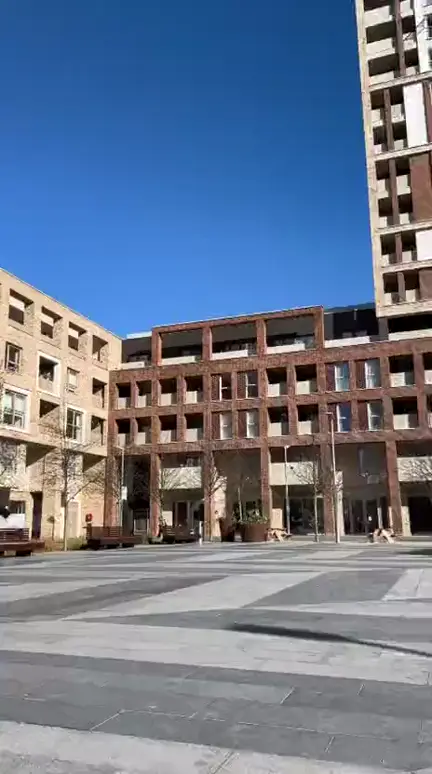
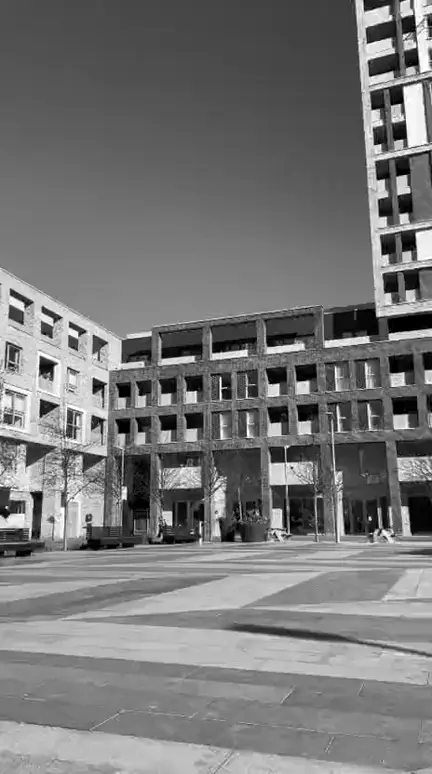
feat: contact section revolves around Instagram; drop grayscale filters
Contact
- One Instagram card replaces the 2x2 grid. That grid listed a YouTube, a
  Vimeo and an email which all pointed at "#", so the section offered four
  routes and none of them worked.
- The copy-to-clipboard email button goes with them; the address was never
  wired to anything.
- The hand-rolled Instagram mark and the outbound URLs move into shared
  modules, since the footer needs them too. lucide dropped brand icons in v1,
  so the SVG has to live somewhere.

Reveal performance
Revealing the rest of the grid stuttered for a second or two before settling.
The bulk of it was `filter: grayscale()` on every card: a ~400x711 CSS px
image is ~1.1M device pixels of filter work, each one forced onto its own
compositing layer, fifteen times over.

None of that was necessary. A card at rest is a grayscale image, so the
desaturation is now baked into the WebP at encode time, and the video — which
only ever appears on hover, in colour — needs no filter either. Both CSS
filters are gone from the reels grid.

The grayscale-to-colour transition survives as a cross-fade: the video fades in
over the still once its first frame has decoded. Both layers show frame 0 of
the same encode, so what cross-fades is purely the colour returning, and there
is no flash of an empty video element. The fade state lives in a child that
unmounts with the video, so it resets for free.

Verified: reel stills are fully desaturated, hero stills remain in colour.

diff --git a/src/components/site/Contact.tsx b/src/components/site/Contact.tsx
@@ -1,20 +1,13 @@
 import { Reveal } from "@/components/motion/Reveal";
 import { SectionHeader } from "@/components/site/SectionHeader";
-import { Check, Copy } from "lucide-react";
+import { InstagramIcon } from "@/components/site/icons";
+import { INSTAGRAM_HANDLE, INSTAGRAM_URL } from "@/lib/links";
 import { motion } from "motion/react";
-import { useState } from "react";
 
 const CARD_INITIAL = { opacity: 0, y: 24 };
 const CARD_VISIBLE = { opacity: 1, y: 0 };
 const CARD_VIEWPORT = { once: true, amount: 0.5 } as const;
 const CARD_TRANSITION = { duration: 0.55, ease: [0.23, 1, 0.32, 1] as const };
-
-const links = [
-  { label: "Instagram", handle: "@skatedatway", href: "#" },
-  { label: "YouTube", handle: "/@skatedatway", href: "#" },
-  { label: "Vimeo", handle: "/skatedatway", href: "#" },
-  { label: "Email", handle: "hello@skatedatway.com", href: "#" },
-];
 
 export function Contact() {
   // Section is entirely bg-rust — any text sitting directly on it uses
@@ -34,13 +27,13 @@ export function Contact() {
           backgroundSize: "7px 7px",
         }}
       />
-      <div className="mx-auto grid max-w-7xl grid-cols-1 gap-10 px-5 py-20 md:grid-cols-12 md:px-8 md:py-28">
+      <div className="mx-auto grid max-w-7xl grid-cols-1 items-center gap-10 px-5 py-20 md:grid-cols-12 md:px-8 md:py-28">
         <div className="md:col-span-6">
           <SectionHeader
             index="04"
             label="Contact"
             tone="rust"
-            note="say hello"
+            note="dms open"
             invert
           >
             <Reveal>
@@ -52,91 +45,48 @@ export function Contact() {
             </Reveal>
           </SectionHeader>
           <p className="mt-5 max-w-lg text-on-accent/80">
-            Down to meet at a spot, go for a roll, or film a session? Drop a
-            message.
+            Everything goes up on Instagram first. DMs are open — come film,
+            share a spot, or just say hello.
           </p>
-
-          <div className="mt-8 inline-block">
-            <CopyEmail value="hello@skatedatway.com" />
-          </div>
         </div>
 
+        {/* One card, one place to go. The old 2x2 grid listed a YouTube, a
+            Vimeo and an email that all pointed at "#", so the section offered
+            four routes and none of them worked. Card sits on rust with
+            on-accent text and inverts to the always-dark surface on hover,
+            which is the same treatment the grid used. */}
         <div className="md:col-span-6">
-          {/* Gutter bg uses the fixed dark so the 1px grid lines stay dark
-              in both themes. Cards default to rust bg with on-accent text,
-              flip on hover to the always-dark surface with always-cream
-              text (the hover inversion is intentional). */}
-          <div className="grid grid-cols-1 gap-px bg-ink-fixed sm:grid-cols-2">
-            {links.map((l) => (
-              <motion.a
-                key={l.label}
-                href={l.href}
-                initial={CARD_INITIAL}
-                whileInView={CARD_VISIBLE}
-                viewport={CARD_VIEWPORT}
-                transition={CARD_TRANSITION}
-                className="group relative flex items-center justify-between gap-4 bg-rust p-6 transition-colors duration-200 hover:bg-ink-fixed"
-              >
-                <div className="min-w-0 flex-1">
-                  <p className="font-mono text-[10px] uppercase tracking-widest text-on-accent/60 transition-colors duration-200 group-hover:text-bone-fixed/60">
-                    {l.label}
-                  </p>
-                  <p className="wrap-break-word font-display text-lg uppercase leading-tight text-on-accent transition-colors duration-200 group-hover:text-bone-fixed md:text-xl">
-                    {l.handle}
-                  </p>
-                </div>
-                <span className="shrink-0 font-display text-2xl text-on-accent transition-all duration-200 ease-out group-hover:-translate-y-1 group-hover:translate-x-1 group-hover:text-rust">
-                  ↗
-                </span>
-              </motion.a>
-            ))}
-          </div>
+          <motion.a
+            href={INSTAGRAM_URL}
+            target="_blank"
+            rel="noreferrer"
+            initial={CARD_INITIAL}
+            whileInView={CARD_VISIBLE}
+            viewport={CARD_VIEWPORT}
+            transition={CARD_TRANSITION}
+            className="group relative flex flex-col justify-between gap-16 border-2 border-ink-fixed bg-rust p-8 shadow-[8px_8px_0_0_#0a0a0a] transition-colors duration-200 hover:bg-ink-fixed md:p-10"
+          >
+            <div className="flex items-start justify-between gap-4">
+              <InstagramIcon
+                aria-hidden
+                className="size-9 text-on-accent transition-colors duration-200 group-hover:text-bone-fixed md:size-11"
+              />
+              <span className="shrink-0 font-display text-3xl leading-none text-on-accent transition-all duration-200 ease-out group-hover:-translate-y-1 group-hover:translate-x-1 group-hover:text-bone-fixed">
+                ↗
+              </span>
+            </div>
+
+            <div className="min-w-0">
+              <p className="font-mono text-[10px] uppercase tracking-widest text-on-accent/60 transition-colors duration-200 group-hover:text-bone-fixed/60">
+                Follow along
+              </p>
+              <p className="wrap-break-word mt-1 font-display text-4xl uppercase leading-none text-on-accent transition-colors duration-200 group-hover:text-bone-fixed md:text-5xl">
+                {INSTAGRAM_HANDLE}
+              </p>
+            </div>
+          </motion.a>
         </div>
       </div>
     </section>
-  );
-}
-
-function CopyEmail({ value }: { value: string }) {
-  const [copied, setCopied] = useState(false);
-
-  async function copy() {
-    try {
-      await navigator.clipboard.writeText(value);
-    } catch {
-      /* ignore — still show confirmation */
-    }
-    setCopied(true);
-    window.setTimeout(() => setCopied(false), 1600);
-  }
-
-  // Button sits on the rust section. Default state is an always-dark button
-  // with always-cream text. Copied state flips to bg-rust with on-accent text
-  // (tracks theme). Border stays always-dark for the brutalist outline.
-  return (
-    <button
-      type="button"
-      onClick={copy}
-      aria-label={copied ? "Email copied" : `Copy email ${value}`}
-      data-state={copied ? "copied" : "idle"}
-      className="press group relative cursor-pointer overflow-hidden border-2 border-ink-fixed bg-ink-fixed px-5 py-4 font-display text-sm uppercase tracking-widest text-bone-fixed shadow-[6px_6px_0_0_#0a0a0a] transition-colors duration-300 ease-out hover:bg-concrete data-[state=copied]:bg-rust data-[state=copied]:text-on-accent"
-    >
-      <span className="relative grid">
-        <span
-          aria-hidden={copied}
-          className="col-start-1 row-start-1 flex items-center gap-3 transition-[opacity,filter,transform] duration-200 ease-out group-data-[state=copied]:-translate-y-1 group-data-[state=copied]:opacity-0 group-data-[state=copied]:blur-[2px]"
-        >
-          <Copy className="size-4" />
-          {value}
-        </span>
-        <span
-          aria-hidden={!copied}
-          className="col-start-1 row-start-1 flex items-center gap-3 translate-y-1 opacity-0 blur-[2px] transition-[opacity,filter,transform] duration-200 ease-out group-data-[state=copied]:translate-y-0 group-data-[state=copied]:opacity-100 group-data-[state=copied]:blur-none"
-        >
-          <Check className="size-4" strokeWidth={3} />
-          Copied to clipboard
-        </span>
-      </span>
-    </button>
   );
 }

diff --git a/src/components/media/LazyVideo.tsx b/src/components/media/LazyVideo.tsx
@@ -13,27 +13,32 @@ type Props = {
   label: string;
 };
 
+const FADE_MS = 450;
+
 /**
  * A still that becomes a video only while it is being watched.
  *
  * The <video> element is *mounted on demand* rather than mounted-and-idle. A
  * paused video is not free: each one holds a media decoder and gets its own
- * composited layer, and with a grayscale filter over the top, fifteen of them
- * on one grid is enough to cost frames while scrolling. So the resting state
- * of a card is a single <img> and no video element at all — which means the
- * grid costs the same whether it holds twelve cards or a hundred.
+ * composited layer, so a grid of them costs frames while scrolling even though
+ * nothing is playing. The resting state of a card is a single <img> and no
+ * video element at all, which means the grid costs the same whether it holds
+ * twelve cards or a hundred.
  *
- * The swap is seamless because of how the assets were encoded: each still is
- * frame 0 of its own clip. A freshly mounted video has no data yet and is
- * therefore transparent, so the still shows through underneath; the moment the
- * first frame decodes, the video paints the same image the still was already
- * showing. Nothing needs to fade, and there is no flash of black. On the way
- * out the video unmounts and the still is simply revealed again.
+ * Neither layer carries a CSS filter. The stills are encoded desaturated and
+ * the video is only ever shown on hover, where it is meant to be in colour, so
+ * the grayscale/colour transition is done by cross-fading one over the other
+ * instead of animating `filter`. Fifteen filter passes and the layers they
+ * forced were the bulk of the cost of revealing the rest of the grid.
  *
- * The still itself is still lazy — its `src` is withheld until the card is
- * within `rootMargin` of the viewport. It is gated on the observer rather than
- * `loading="lazy"`, whose distance threshold is a browser heuristic that in
- * practice fetched the whole grid up front.
+ * The fade waits for the video's first frame. Both layers show frame 0 of the
+ * same encode, so what cross-fades is purely the colour coming back, and there
+ * is never a flash of an empty video element.
+ *
+ * The still's `src` is withheld until the card is within `rootMargin` of the
+ * viewport. It is gated on the observer rather than `loading="lazy"`, whose
+ * distance threshold is a browser heuristic that in practice fetched the whole
+ * grid up front.
  */
 export function LazyVideo({
   src,
@@ -47,7 +52,6 @@ export function LazyVideo({
   // The <img> is the permanent element, so it is what we observe — the video
   // comes and goes and cannot be relied on as an observation target.
   const imgRef = useRef<HTMLImageElement>(null);
-  const videoRef = useRef<HTMLVideoElement>(null);
   const [near, setNear] = useState(
     () => typeof IntersectionObserver === "undefined",
   );
@@ -66,16 +70,6 @@ export function LazyVideo({
     return () => io.disconnect();
   }, [near, rootMargin]);
 
-  // `autoPlay` covers most cases, but iOS Safari can refuse it even when muted
-  // (Low Power Mode, Data Saver). Nudge it once on mount; if that is refused
-  // too, the still stays up, which is a perfectly good fallback.
-  useEffect(() => {
-    if (!active) return;
-    const v = videoRef.current;
-    if (!v) return;
-    v.play().catch(() => {});
-  }, [active]);
-
   return (
     <>
       <img
@@ -90,23 +84,64 @@ export function LazyVideo({
         style={style}
       />
       {active && (
-        <video
-          ref={videoRef}
+        <HoverVideo
           src={src}
-          autoPlay
-          muted
-          loop
-          playsInline
-          // iOS Safari still reads the legacy attribute in some versions.
-          webkit-playsinline="true"
-          preload="auto"
-          disablePictureInPicture
-          disableRemotePlayback
-          aria-label={label}
-          className={cn("absolute inset-0", className)}
+          label={label}
+          className={className}
           style={style}
         />
       )}
     </>
+  );
+}
+
+/**
+ * Split out so the fade state lives and dies with the element. Unmounting
+ * resets it for free, which is both simpler than clearing it from an effect
+ * and avoids a synchronous setState during one.
+ */
+function HoverVideo({
+  src,
+  label,
+  className,
+  style,
+}: {
+  src: string;
+  label: string;
+  className?: string;
+  style?: React.CSSProperties;
+}) {
+  const ref = useRef<HTMLVideoElement>(null);
+  const [shown, setShown] = useState(false);
+
+  // `autoPlay` covers most cases, but iOS Safari can refuse it even when muted
+  // (Low Power Mode, Data Saver). Nudge it once on mount; if that is refused
+  // too the still stays up, which is a perfectly good fallback.
+  useEffect(() => {
+    ref.current?.play().catch(() => {});
+  }, []);
+
+  return (
+    <video
+      ref={ref}
+      src={src}
+      autoPlay
+      muted
+      loop
+      playsInline
+      // iOS Safari still reads the legacy attribute in some versions.
+      webkit-playsinline="true"
+      preload="auto"
+      disablePictureInPicture
+      disableRemotePlayback
+      aria-label={label}
+      onLoadedData={() => setShown(true)}
+      className={cn("absolute inset-0", className)}
+      style={{
+        ...style,
+        opacity: shown ? 1 : 0,
+        transition: `opacity ${FADE_MS}ms ease-out`,
+      }}
+    />
   );
 }

diff --git a/src/components/site/Footer.tsx b/src/components/site/Footer.tsx
@@ -7,24 +7,12 @@ import {
 } from "motion/react";
 import { useEffect, useRef } from "react";
 import { useScrollFrame } from "@/hooks/useScrollFrame";
-
-const Instagram = (props: React.SVGProps<SVGSVGElement>) => (
-  <svg
-    viewBox="0 0 24 24"
-    fill="none"
-    stroke="currentColor"
-    strokeWidth="2"
-    strokeLinecap="round"
-    strokeLinejoin="round"
-    {...props}
-  >
-    <rect x="2" y="2" width="20" height="20" rx="5" />
-    <path d="M16 11.37A4 4 0 1 1 12.63 8 4 4 0 0 1 16 11.37z" />
-    <line x1="17.5" y1="6.5" x2="17.51" y2="6.5" />
-  </svg>
-);
-const INSTAGRAM_URL = "https://www.instagram.com/skatedatway";
-const STUDIO_URL = "https://smfstudio.io";
+import { InstagramIcon } from "@/components/site/icons";
+import {
+  INSTAGRAM_HANDLE,
+  INSTAGRAM_URL,
+  STUDIO_URL,
+} from "@/lib/links";
 
 // One column. The Colophon and Signal columns went with the placeholder links
 // they were made of — every entry in them pointed at "#".
@@ -133,8 +121,8 @@ export function Footer() {
               rel="noreferrer"
               className="press mt-5 inline-flex items-center gap-3 border-2 border-bone/40 px-4 py-2.5 font-mono text-[11px] uppercase tracking-widest text-bone transition-colors duration-150 hover:border-rust hover:text-rust"
             >
-              <Instagram aria-hidden className="h-4 w-4" />
-              @skatedatway
+              <InstagramIcon aria-hidden className="h-4 w-4" />
+              {INSTAGRAM_HANDLE}
             </a>
           </div>
 

diff --git a/src/components/site/Reels.tsx b/src/components/site/Reels.tsx
@@ -251,7 +251,12 @@ function ReelCard({
             src={`/videos/${reel.slug}.mp4`}
             poster={`/posters/${reel.slug}.webp`}
             active={playing}
-            className="h-full w-full object-cover grayscale transition-[filter,transform] duration-500 ease-out group-hover:scale-[1.02] group-hover:grayscale-0 group-focus-visible:scale-[1.02] group-focus-visible:grayscale-0 group-data-[active=true]:scale-[1.02] group-data-[active=true]:grayscale-0"
+            // No `grayscale` filter. The stills are encoded desaturated, and
+            // the video only ever appears on hover, where it is meant to be in
+            // colour — so neither layer needs a filter. That removes fifteen
+            // filter passes and the compositing layers they forced, which is
+            // what made revealing the rest of the grid stutter.
+            className="h-full w-full object-cover transition-transform duration-500 ease-out group-hover:scale-[1.02] group-focus-visible:scale-[1.02] group-data-[active=true]:scale-[1.02]"
             label={`${reel.title} preview`}
           />
           <div className="pointer-events-none absolute inset-0 scanlines opacity-25" />

diff --git a/src/components/site/icons.tsx b/src/components/site/icons.tsx
@@ -1,0 +1,19 @@
+/**
+ * Brand marks that lucide does not carry — it dropped its brand icon set in
+ * v1, so this one is hand-rolled and shared rather than redeclared per file.
+ */
+export const InstagramIcon = (props: React.SVGProps<SVGSVGElement>) => (
+  <svg
+    viewBox="0 0 24 24"
+    fill="none"
+    stroke="currentColor"
+    strokeWidth="2"
+    strokeLinecap="round"
+    strokeLinejoin="round"
+    {...props}
+  >
+    <rect x="2" y="2" width="20" height="20" rx="5" />
+    <path d="M16 11.37A4 4 0 1 1 12.63 8 4 4 0 0 1 16 11.37z" />
+    <line x1="17.5" y1="6.5" x2="17.51" y2="6.5" />
+  </svg>
+);

diff --git a/src/lib/links.ts b/src/lib/links.ts
@@ -1,0 +1,4 @@
+/** Outbound links, kept in one place so the handle only has to be right once. */
+export const INSTAGRAM_URL = "https://www.instagram.com/skatedatway"
+export const INSTAGRAM_HANDLE = "@skatedatway"
+export const STUDIO_URL = "https://smfstudio.io"
